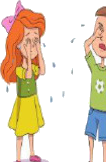
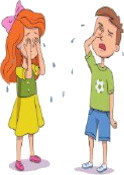
Atualiza a atividade

diff --git a/index.html b/index.html
@@ -2518,7 +2518,7 @@ var CART = {
 /* ⚠ A MARCA DE VERSÃO NA FIGURA. Quando eu troco uma figura, o NOME do arquivo
    continua o mesmo — e o navegador da escola serve a cópia velha do cache.
    REGRA: mexeu em figura, sobe o VIMG no mesmo commit. */
-var VIMG = 3;
+var VIMG = 4;
 /* ⚠⚠ `draggable="false"` NÃO É DETALHE: toda imagem é arrastável de fábrica no
    navegador, e quando a criança apertava a figura e puxava, o Chrome começava o
    SEU arrasto nativo e disparava um `pointercancel` — o nosso arrasto morria no
